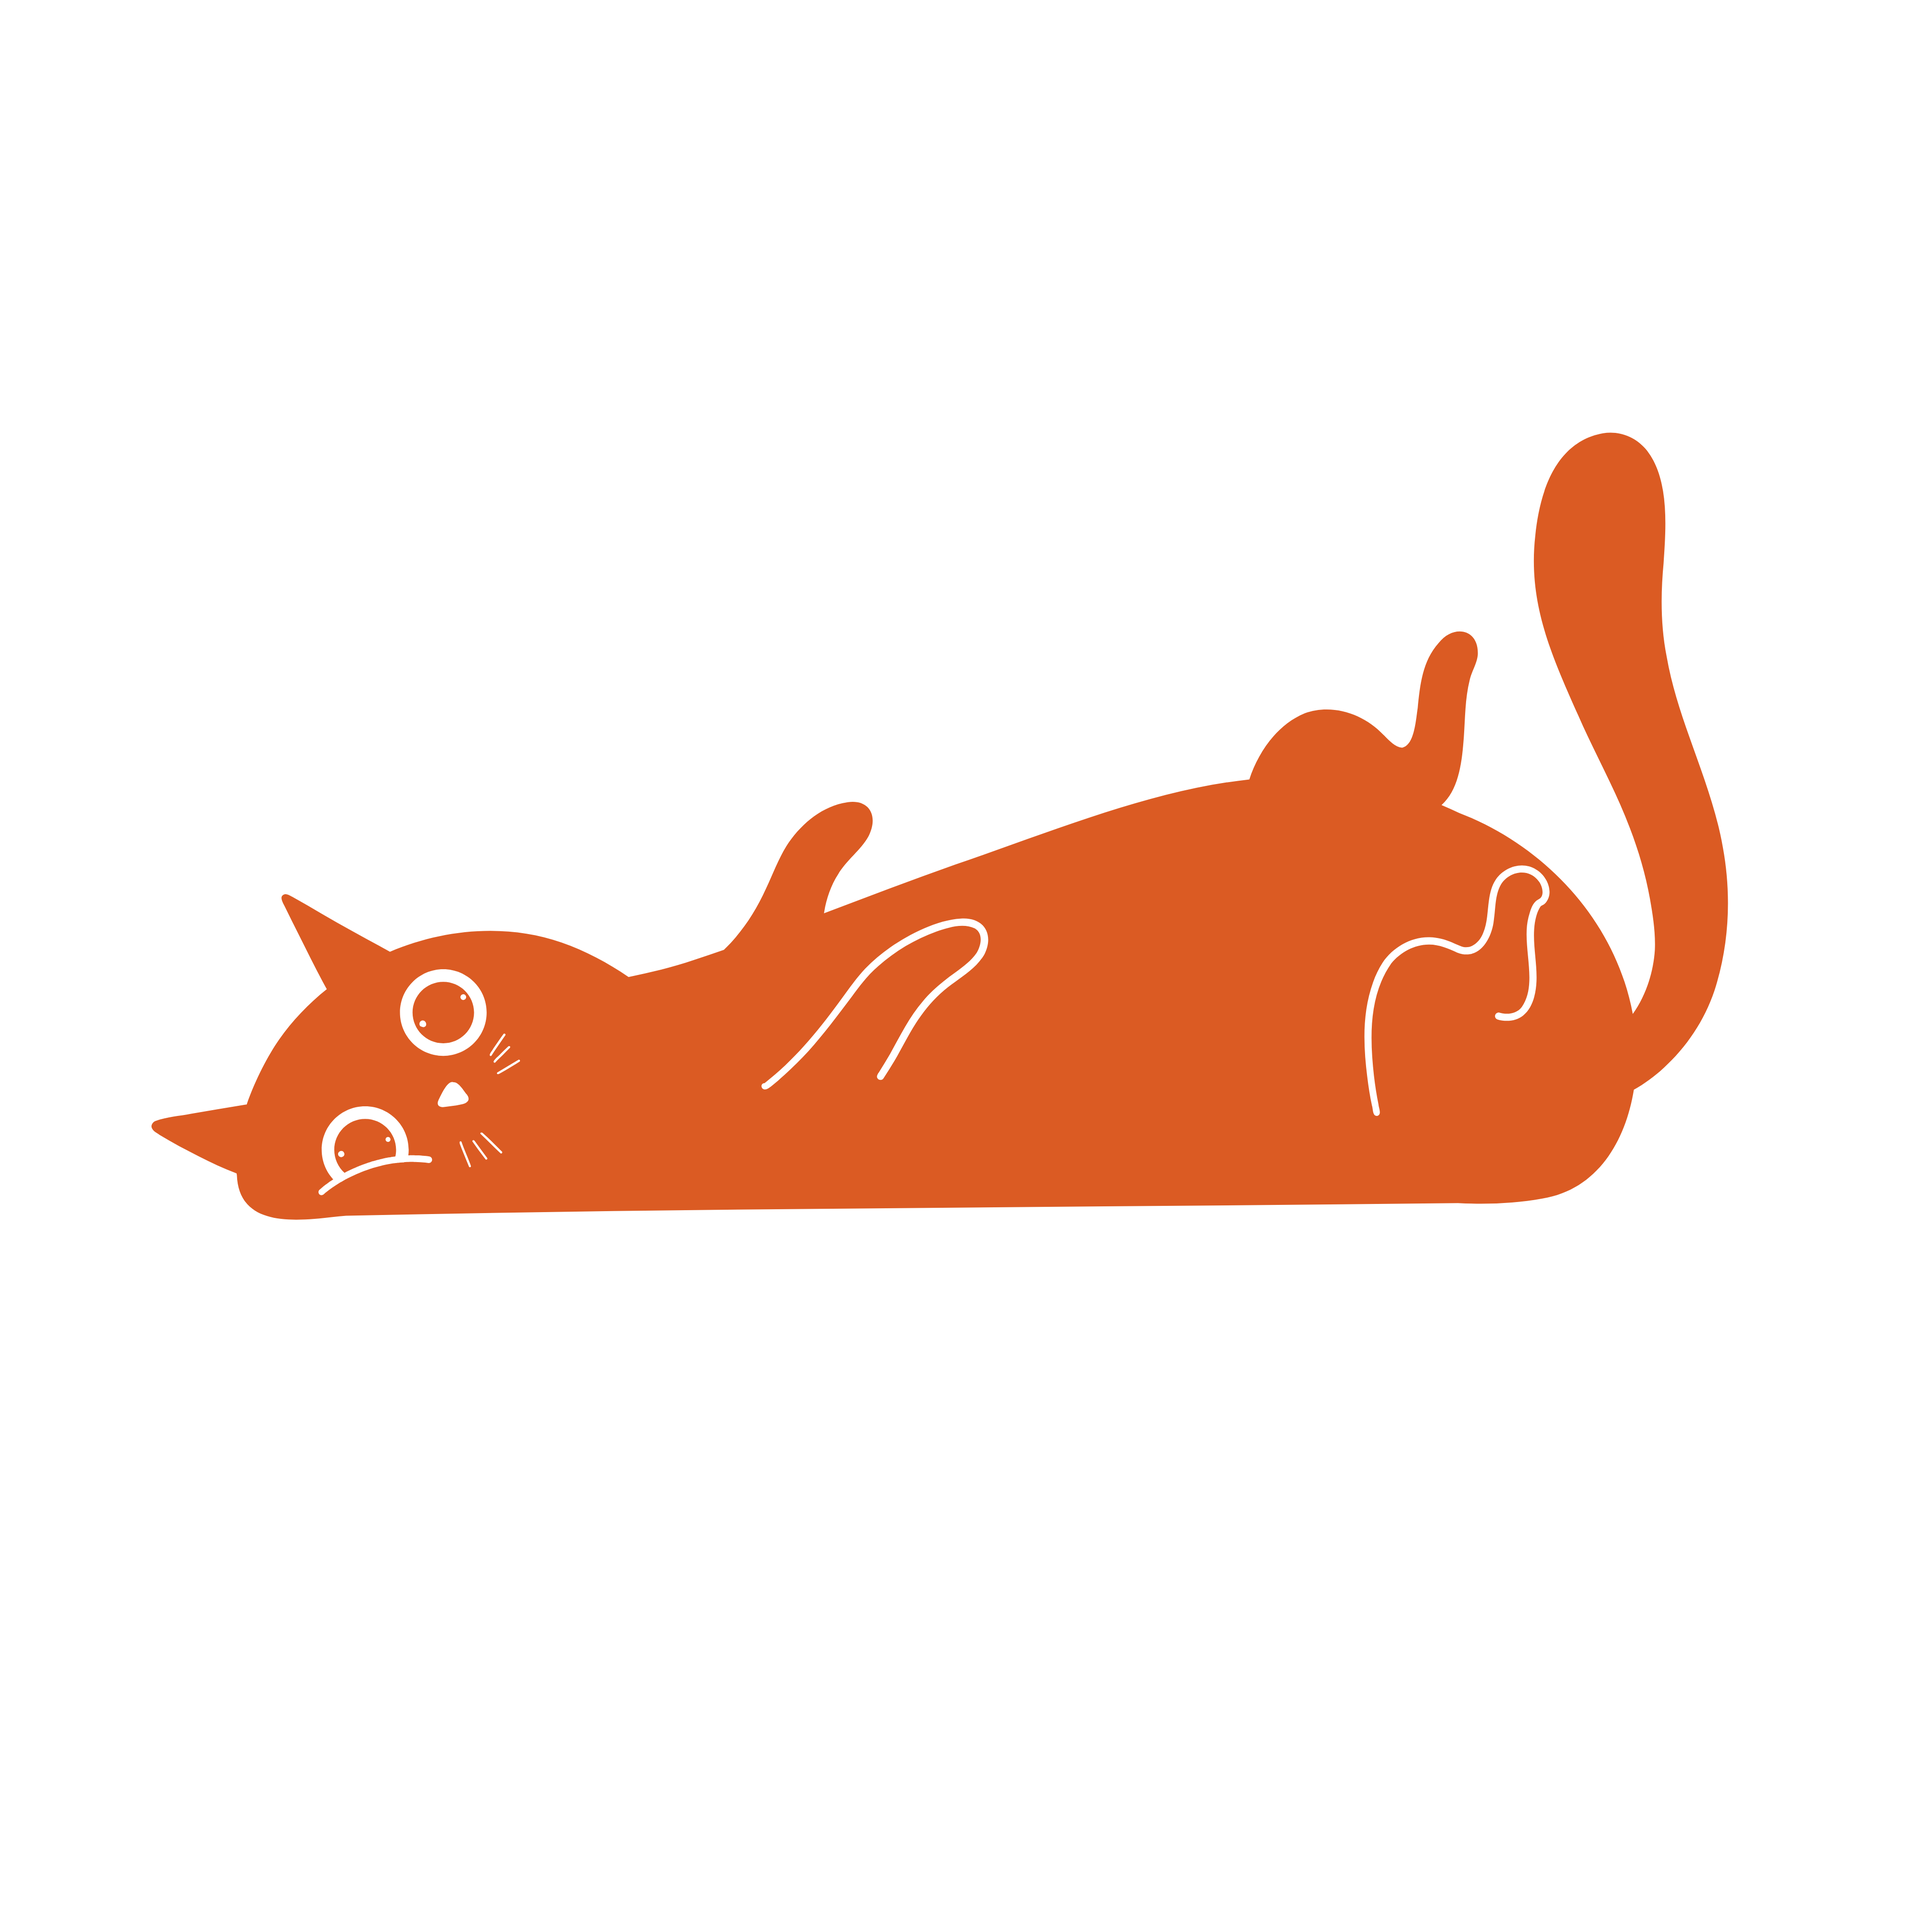
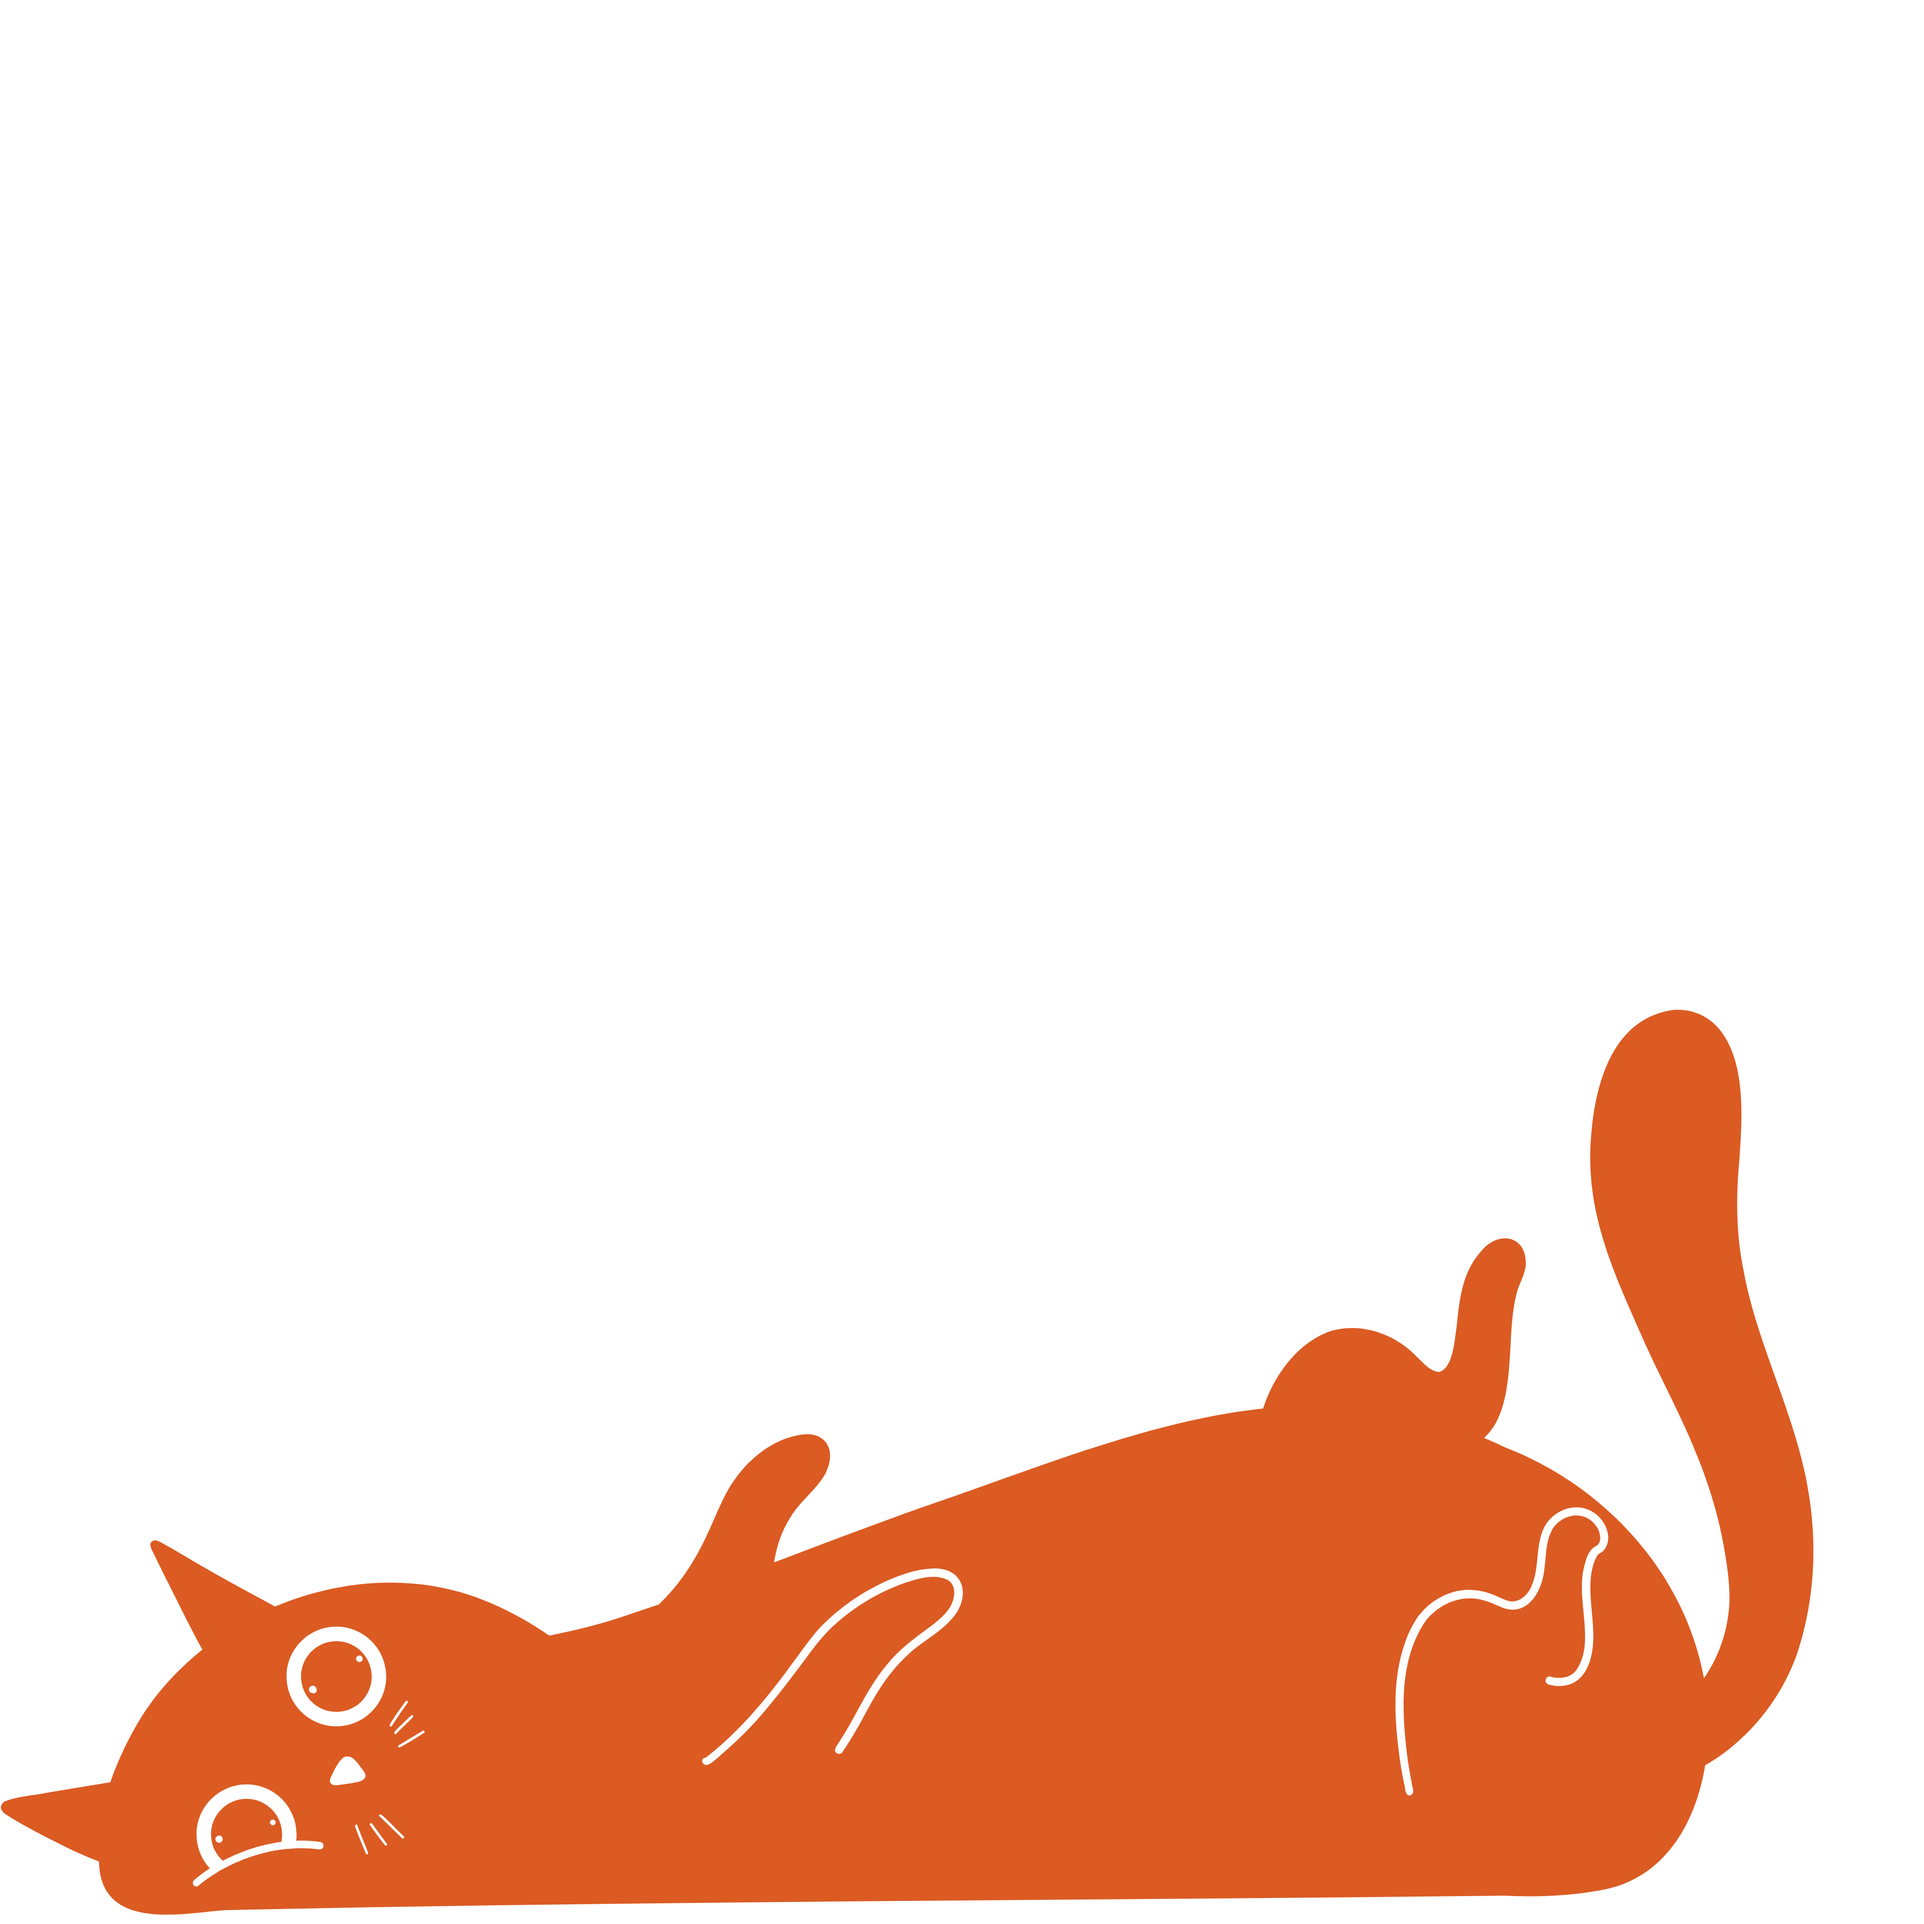
Merevisi pubsec.yaml dan merevisi bagian png yang ga ke lihatan, lalu menambahkan ebberapa codingan lainya agar lebih mirip dari design

diff --git a/lib/screens/welcome.dart b/lib/screens/welcome.dart
@@ -10,7 +10,7 @@ class WelcomePage extends StatelessWidget {
   @override
   Widget build(BuildContext context) {
     return Scaffold(
-      backgroundColor: const Color.fromRGBO(238, 230, 198, 1),
+      backgroundColor: const Color.fromARGB(255, 238, 236, 226),
       body: Stack(
         children: [
           // rumput
@@ -22,7 +22,6 @@ class WelcomePage extends StatelessWidget {
               height: 180,
               decoration: const BoxDecoration(
                 image: DecorationImage(
-                  // Ganti dengan asset rumput kamu
                   image: AssetImage('assets/images/grass.png'),
                   fit: BoxFit.cover,
                 ),
@@ -30,41 +29,27 @@ class WelcomePage extends StatelessWidget {
             ),
           ),
 
-          SafeArea(
+          // kucing + tombol (satu grup, diatur dari bawah)
+          Positioned(
+            left: 0,
+            right: 0,
+            bottom: 200,
             child: Column(
+              mainAxisSize: MainAxisSize.min,
               children: [
-                // Icon headset kanan atas
-                Align(
-                  alignment: Alignment.topRight,
-                  child: Padding(
-                    padding: const EdgeInsets.only(right: 16, top: 8),
-                    child: IconButton(
-                      onPressed: () {
-                      },
-                      icon: const Icon(
-                        Icons.support_agent,
-                        size: 36,
-                        color: AppColors.orange,
-                      ),
-                    ),
-                  ),
-                ),
-
-                const Spacer(flex: 2),
-
-                // Gambar kucing
+                // kucing
                 Image.asset(
                   'assets/images/cat.png',
                   width: 220,
                   fit: BoxFit.contain,
                 ),
 
-                const Spacer(flex: 1),
+                const SizedBox(height: 8),
 
                 // LOGIN
                 _buildButton(
                   text: 'LOGIN',
-                  color: AppColors.greenBtn,
+                  color: const Color.fromARGB(255, 196, 215, 170),
                   onTap: () => Navigator.push(
                     context,
                     MaterialPageRoute(builder: (_) => const LoginPage()),
@@ -72,10 +57,10 @@ class WelcomePage extends StatelessWidget {
                 ),
                 const SizedBox(height: 16),
 
-                // Tombol REKENING BARU
+                // REKENING BARU
                 _buildButton(
                   text: 'REKENING BARU',
-                  color: AppColors.yellowBtn,
+                  color: const Color.fromRGBO(238, 231, 208, 1),
                   onTap: () => Navigator.push(
                     context,
                     MaterialPageRoute(builder: (_) => const RegisterPage()),
@@ -83,7 +68,7 @@ class WelcomePage extends StatelessWidget {
                 ),
                 const SizedBox(height: 16),
 
-                // Tombol INFO
+                // INFO
                 _buildButton(
                   text: 'INFO',
                   color: AppColors.greenBtn,
@@ -92,9 +77,25 @@ class WelcomePage extends StatelessWidget {
                     MaterialPageRoute(builder: (_) => const InfoPage()),
                   ),
                 ),
-
-                const Spacer(flex: 3),
               ],
+            ),
+          ),
+
+          // icon headset kanan atas
+          SafeArea(
+            child: Align(
+              alignment: Alignment.topRight,
+              child: Padding(
+                padding: const EdgeInsets.only(right: 16, top: 8),
+                child: IconButton(
+                  onPressed: () {},
+                  icon: const Icon(
+                    Icons.support_agent,
+                    size: 36,
+                    color: AppColors.orange,
+                  ),
+                ),
+              ),
             ),
           ),
         ],
@@ -118,7 +119,7 @@ class WelcomePage extends StatelessWidget {
             backgroundColor: color,
             elevation: 0,
             shape: RoundedRectangleBorder(
-              borderRadius: BorderRadius.circular(28), // pill shape
+              borderRadius: BorderRadius.circular(28),
             ),
           ),
           child: Text(

diff --git a/lib/screens/login.dart b/lib/screens/login.dart
@@ -24,7 +24,7 @@ class _LoginPageState extends State<LoginPage> {
   @override
   Widget build(BuildContext context) {
     return Scaffold(
-      backgroundColor: AppColors.bg,
+      backgroundColor: const Color.fromRGBO(255, 253, 245, 1),
       appBar: AppBar(
         backgroundColor: Colors.transparent,
         elevation: 0,
